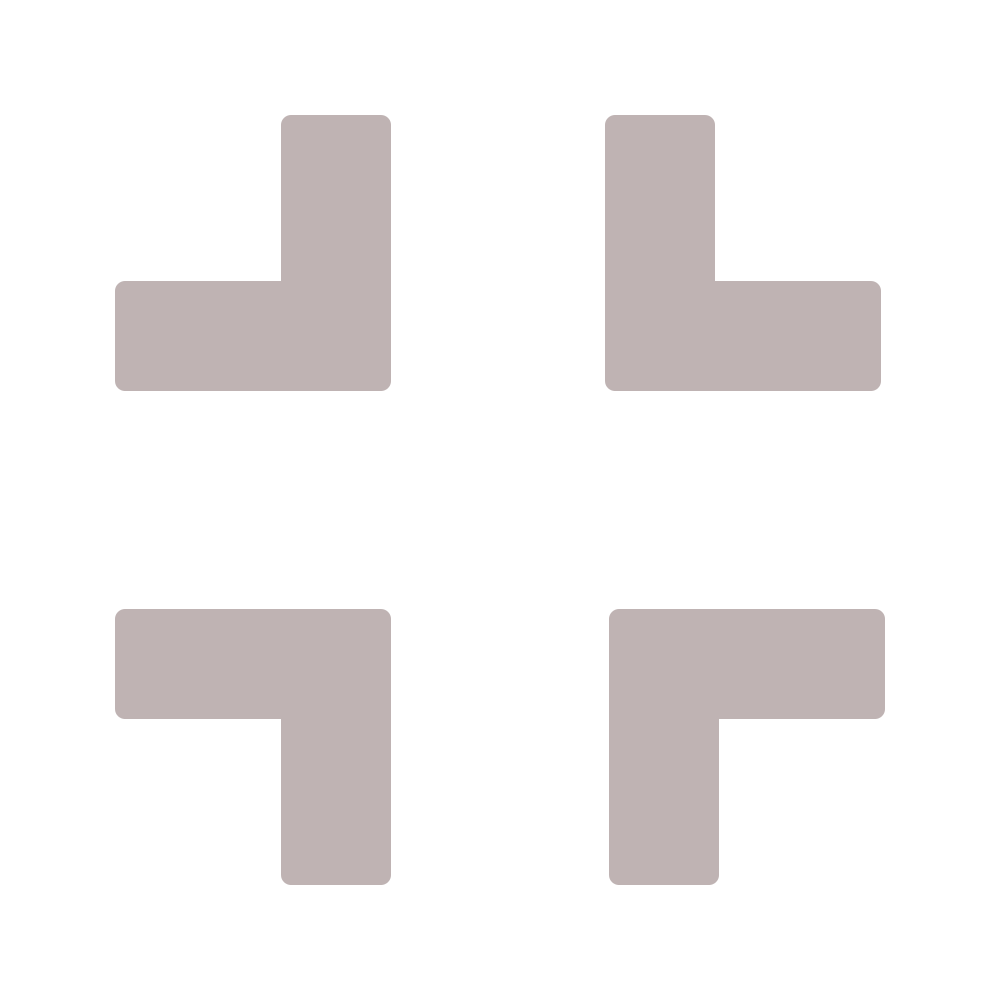
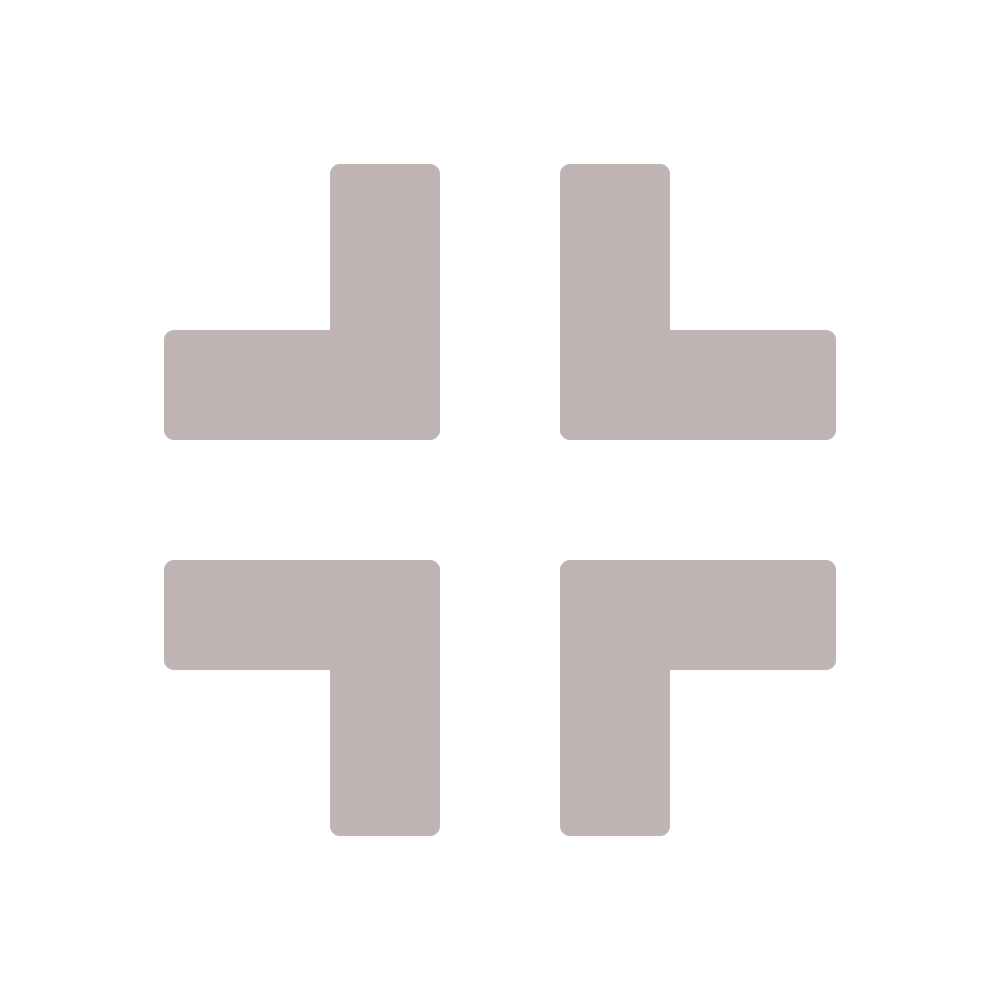
updated maximize, minimize buttons

diff --git a/src/Gui/image_storage.tsx b/src/Gui/image_storage.tsx
@@ -25,8 +25,8 @@ import xaxis from "./assets/gui_images/xaxis.png"
 import plusbutton from "./assets/gui_images/plusbutton.png"
 import plusbuttonwhite from "./assets/gui_images/plusbuttonwhite.png"
 import xbutton from "./assets/gui_images/xbutton.png"
-//import maximize from "./assets/gui_images/maximize.png"
-//import minimize from "./assets/gui_images/minimize.png"
+import maximize from "./assets/gui_images/maximize.png"
+import minimize from "./assets/gui_images/minimize.png"
 
 export const entityImages = new Map([
     ["default_image", default_image],
@@ -58,7 +58,7 @@ export const guiImages = new Map([
     ["xaxis", xaxis],
     ["plus", plusbutton],
     ["pluswhite", plusbuttonwhite],
-    ["xbutton", xbutton]//,
-    //["maximize", maximize]
-    //["minimize", minimize]
+    ["xbutton", xbutton],
+    ["maximize", maximize],
+    ["minimize", minimize]
 ])
